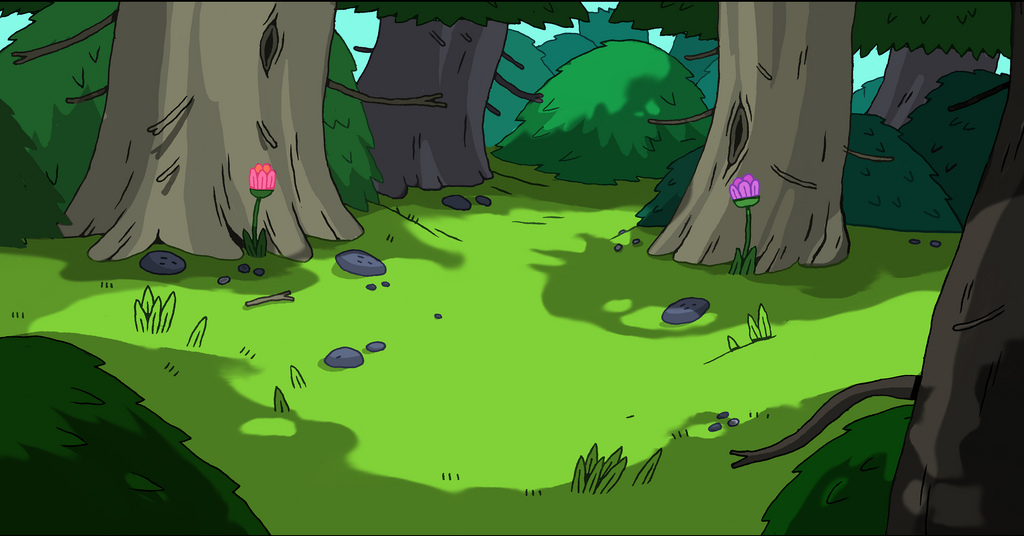
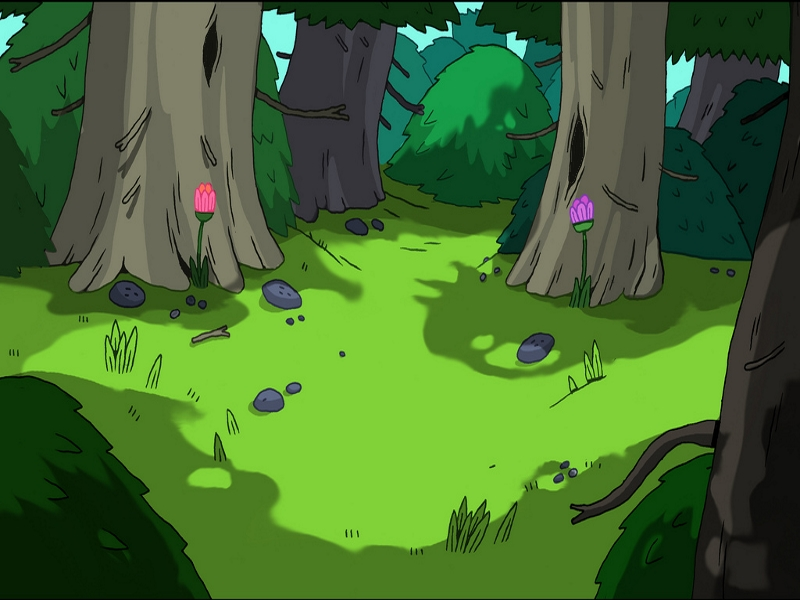
Pushing lots of asset implementation

diff --git a/app/app.js b/app/app.js
@@ -75,16 +75,40 @@ var app ={
                 id: "bluetile"
             },
             {
-                src: "media/images/p1sheet.json",
-                id: "p1",
+                src: "media/images/GreenTile.png",
+                id: "greentile"
+            },
+            {
+                src: "media/images/YellowTile.png",
+                id: "yellowtile"
+            },
+            {
+                src: "media/images/greensheet.json",
+                id: "chammygreen",
                 type: "spritesheet",
                 crossOrigin: true
             },
             {
-                src: "media/images/p2sheet.json",
-                id: "p2",
+                src: "media/images/bluesheet.json",
+                id: "chammyblue",
                 type: "spritesheet",
                 crossOrigin: true
+            },
+            {
+                src: "media/images/redsheet.json",
+                id: "chammyred",
+                type: "spritesheet",
+                crossOrigin: true
+            },
+            {
+                src: "media/images/yellowsheet.json",
+                id: "chammyyellow",
+                type: "spritesheet",
+                crossOrigin: true
+            },
+            {
+                src: "media/images/forest.jpg",
+                id: "background"
             },
         ];
         this.assets = new createjs.LoadQueue(true);
@@ -110,7 +134,8 @@ var app ={
     
         this.gameState = eStates.TITLE;
         var stageBG = new createjs.Shape();
-        stageBG.graphics.beginFill('#AAC').drawRect(0, 0, SCREEN_WIDTH, SCREEN_HEIGHT);
+        stageBG.graphics.beginBitmapFill(app.assets.getResult("background"));
+        stageBG.graphics.drawRect(0, 0, SCREEN_WIDTH, SCREEN_HEIGHT);
         this.stage.addChild(stageBG);
         // this.myGameObject = createSpriteActor(SCREEN_WIDTH / 2, SCREEN_HEIGHT / 2, "pig");
         // this.stage.addChild(this.myGameObject);
@@ -175,42 +200,53 @@ var app ={
             {
                 app.players[1].image.x -= 90;
                 app.keyboard.left.isPressed = false;
+                app.players[1].image.gotoAndPlay("left");
             }
             else if(app.keyboard.right.isPressed && app.players[1].image.x != 90*6+80)
             {
                app.players[1].image.x += 90;
                app.keyboard.right.isPressed = false;
+               app.players[1].image.gotoAndPlay("right");
             }
             else if(app.keyboard.up.isPressed && app.players[1].image.y != 80*1+80)
             {
                 app.players[1].image.y -= 80;
                 app.keyboard.up.isPressed = false;
+                app.players[1].image.gotoAndPlay("up");
             }
             else if(app.keyboard.down.isPressed && app.players[1].image.y != 80*5+80)
             {
                 app.players[1].image.y += 80;
                 app.keyboard.down.isPressed = false;
+                app.players[1].image.gotoAndPlay("down");
             }
 
+
+
+            
             if(app.keyboard.keyA.isPressed && app.players[0].image.x != 90*1+80)
             {
                 app.players[0].image.x -= 90;
                 app.keyboard.keyA.isPressed = false;
+                app.players[0].image.gotoAndPlay("left");
             }
             else if(app.keyboard.keyD.isPressed && app.players[0].image.x != 90*6+80)
             {
                app.players[0].image.x += 90;
                app.keyboard.keyD.isPressed = false;
+               app.players[0].image.gotoAndPlay("right");
             }
             else if(app.keyboard.keyW.isPressed && app.players[0].image.y != 80*1+80)
             {
                 app.players[0].image.y -= 80;
                 app.keyboard.keyW.isPressed = false;
+                app.players[0].image.gotoAndPlay("up");
             }
             else if(app.keyboard.keyS.isPressed && app.players[0].image.y != 80*5+80)
             {
                 app.players[0].image.y += 80;
                 app.keyboard.keyS.isPressed = false;
+                app.players[0].image.gotoAndPlay("down");
             }
             if(app.elapsedTime >= 3){
                 app.changeState(eStates.GAMEOVER);
@@ -465,8 +501,8 @@ var app ={
                     this.tiles.push(new tileActor(this.stage, "tile" + i + j, 90*i+80, 80*j+80, 10, "tile"));
                 }
             }
-            this.players.push(new playerActor(this.stage, "p1", 90*1+80, 80*3+80, 10, "p1"));
-            this.players.push(new playerActor(this.stage, "p2", 90*6+80, 80*3+80, 10, "p2"));
+            this.players.push(new playerActor(this.stage, "chammygreen", 90*1+80, 80*3+80, 10, "chammygreen"));
+            this.players.push(new playerActor(this.stage, "chammyblue", 90*6+80, 80*3+80, 10, "chammyblue"));
             console.log("Changing state to eStates.PLAY");
         }
         else if(this.gameState === eStates.GAMEOVER)

diff --git a/app/js/actors/bitmapactor.js b/app/js/actors/bitmapactor.js
@@ -28,15 +28,19 @@ bitmapActor.prototype.remove = function(parent){
 function tileActor(parent, nameString, x, y, r, imageID){
     bitmapActor.call(this, parent, nameString, x, y, r, imageID);
     this.onstep = function(player){
-        app.stage.removeChild(this.image);
-        this.image = null;
-        this.player = null;
-        if(player == "p1"){
-            this.image = new createjs.Bitmap(app.assets.getResult("redtile"));
-            this.player = "p1";
-        }else{
-            this.image = new createjs.Bitmap(app.assets.getResult("bluetile"));
-            this.player = "p2";
+        if(player == "chammygreen"){
+            this.image.image = app.assets.getResult("greentile");
+            this.player = "chammygreen";
+        }else if(player == "chammyblue"){
+            this.image.image = app.assets.getResult("bluetile");
+            this.player = "chammyblue";
+        }
+        else if(player == "chammyred"){
+            this.image.image = app.assets.getResult("redtile");
+            this.player = "chammyred";
+        }else if(player == "chammyyellow"){
+            this.image.image = app.assets.getResult("yellowtile");
+            this.player = "chammyyellow";
         }
 
         this.image.regX = this.image.getBounds().width / 2;
@@ -44,8 +48,6 @@ function tileActor(parent, nameString, x, y, r, imageID){
 
         this.image.x = this.pos.x;
         this.image.y = this.pos.y;
-
-        app.stage.addChild(this.image);
     }
 }
 tileActor.prototype = Object.create(bitmapActor.prototype);

diff --git a/app/js/actors/actor.js b/app/js/actors/actor.js
@@ -31,6 +31,10 @@ spriteActor.prototype.update = function(dt)
 function playerActor(parent, nameString, x, y, r, imageID)
 {
     spriteActor.call(this, parent, nameString, x, y, r, imageID);
+    this.image.scaleX = 0.5;
+    this.image.scaleY = 0.5;
+    this.image.gotoAndPlay("down");
+    
 
     this.update = function(dt){
         spriteActor.prototype.update.call(this, dt);
